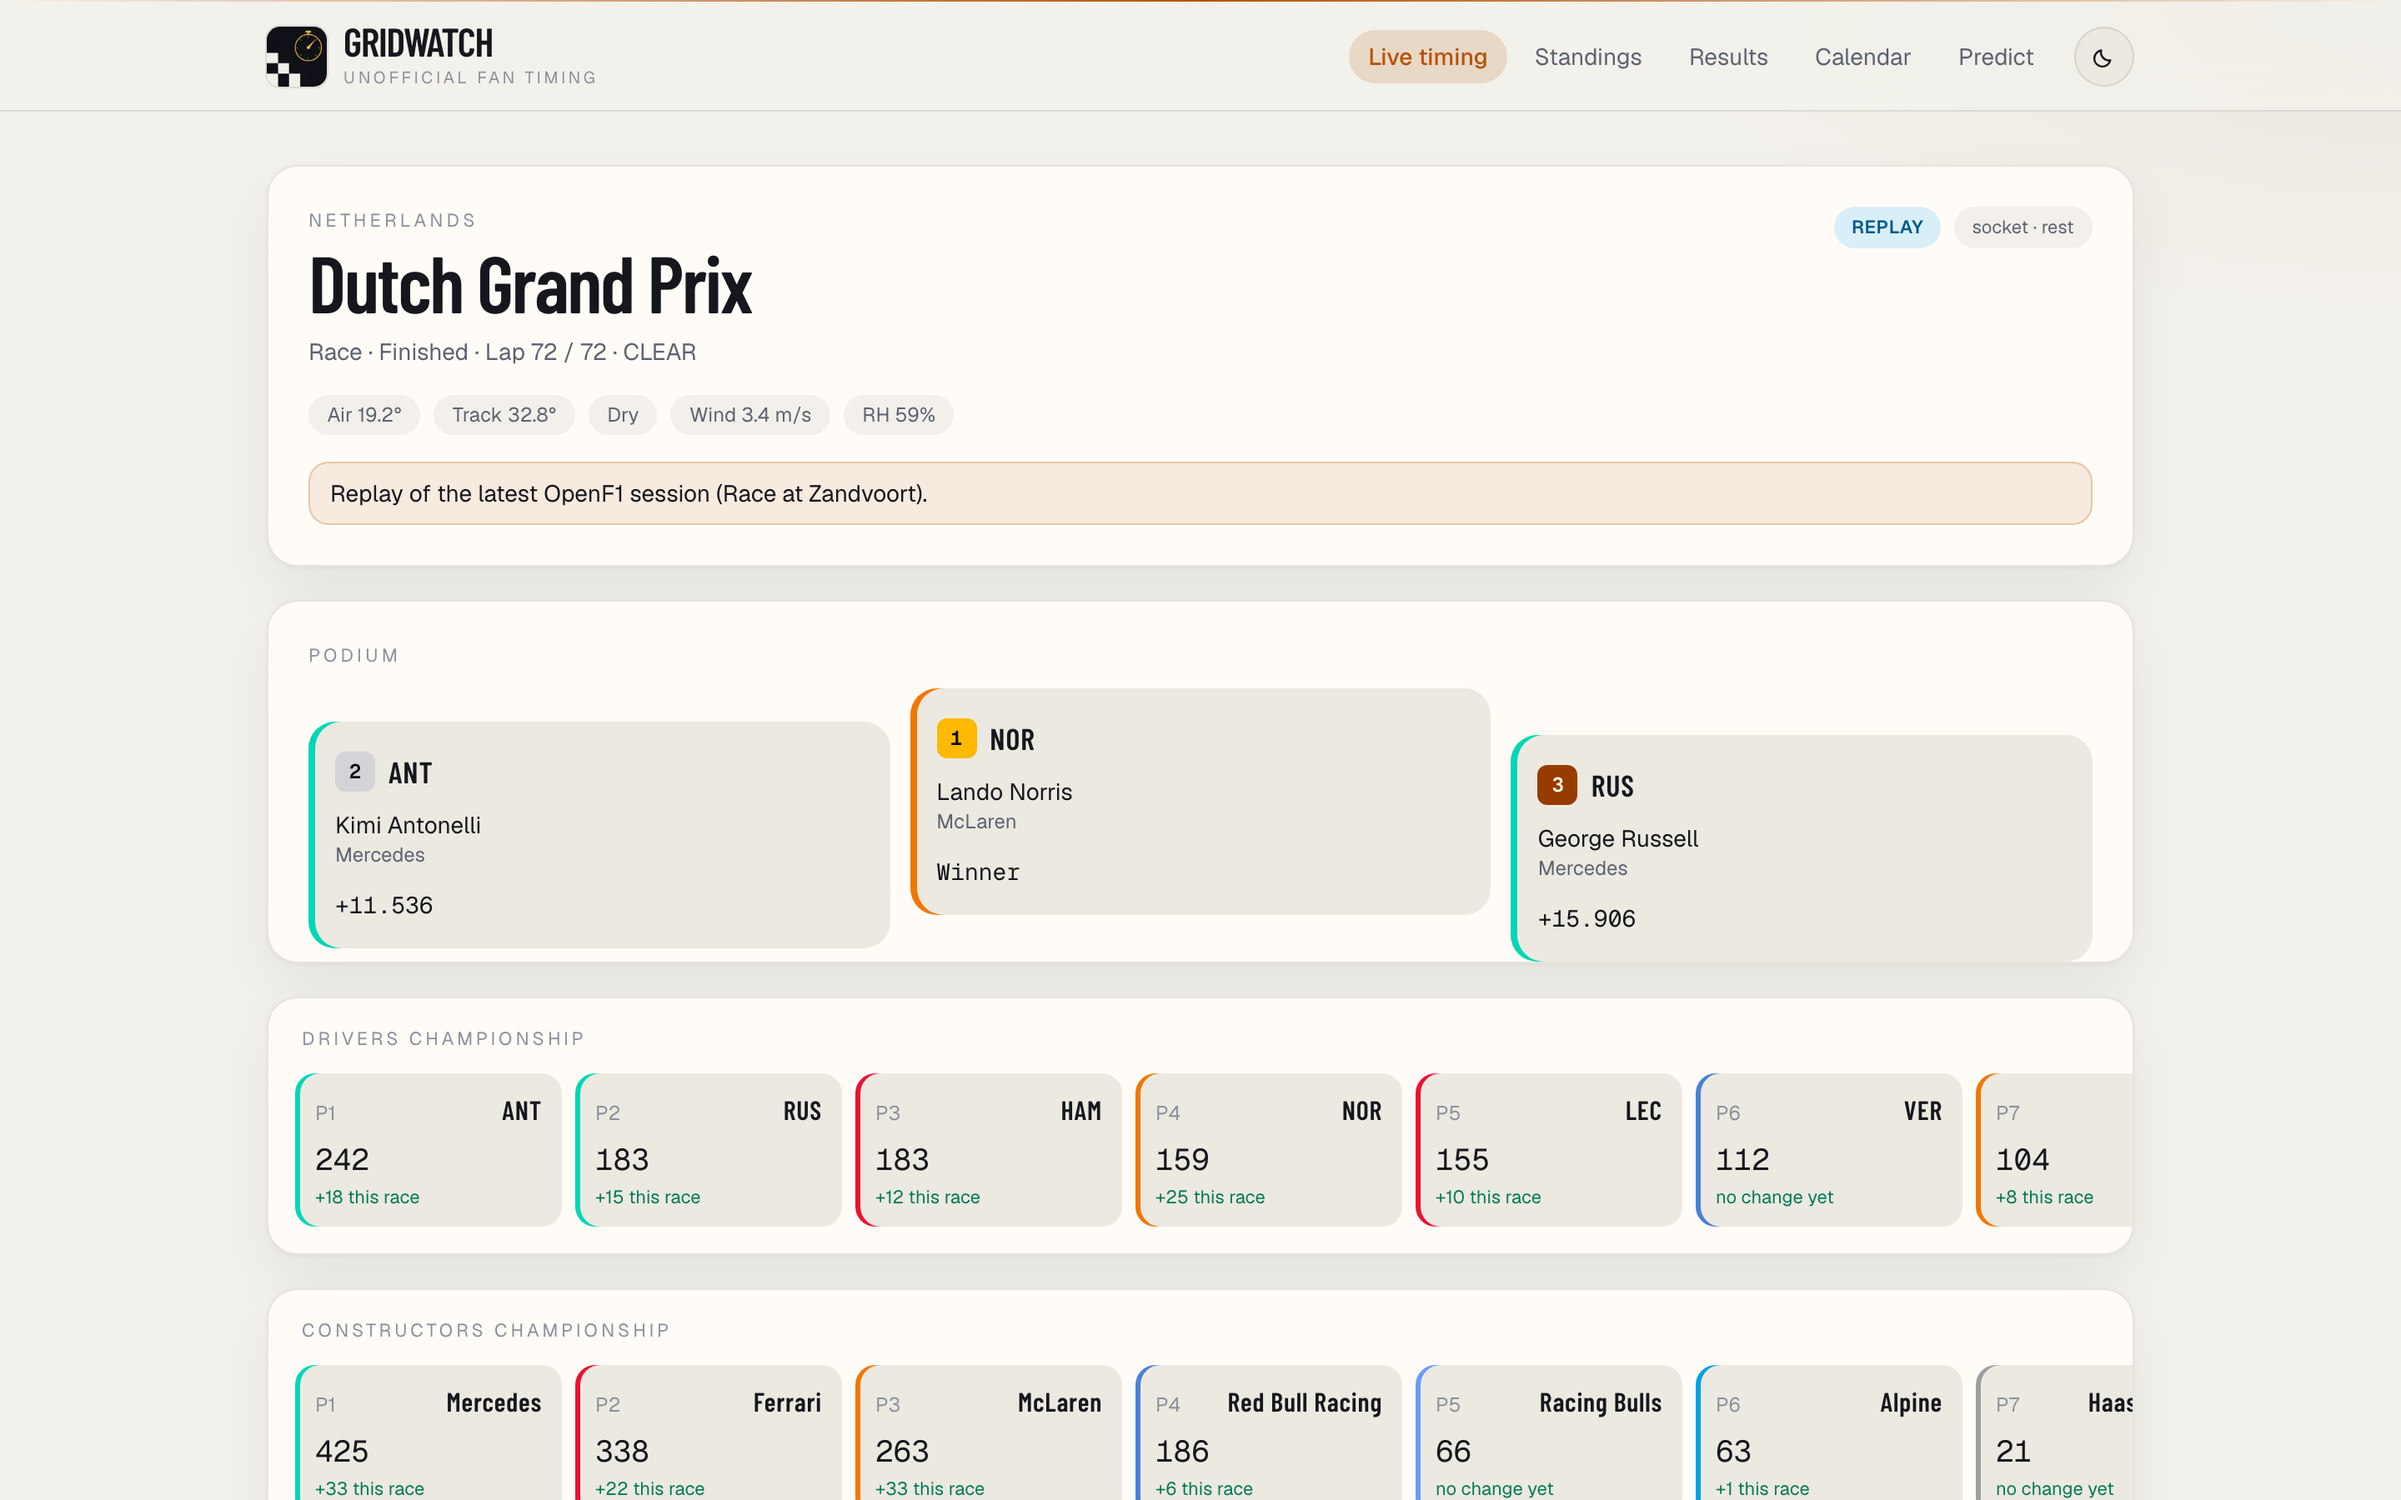
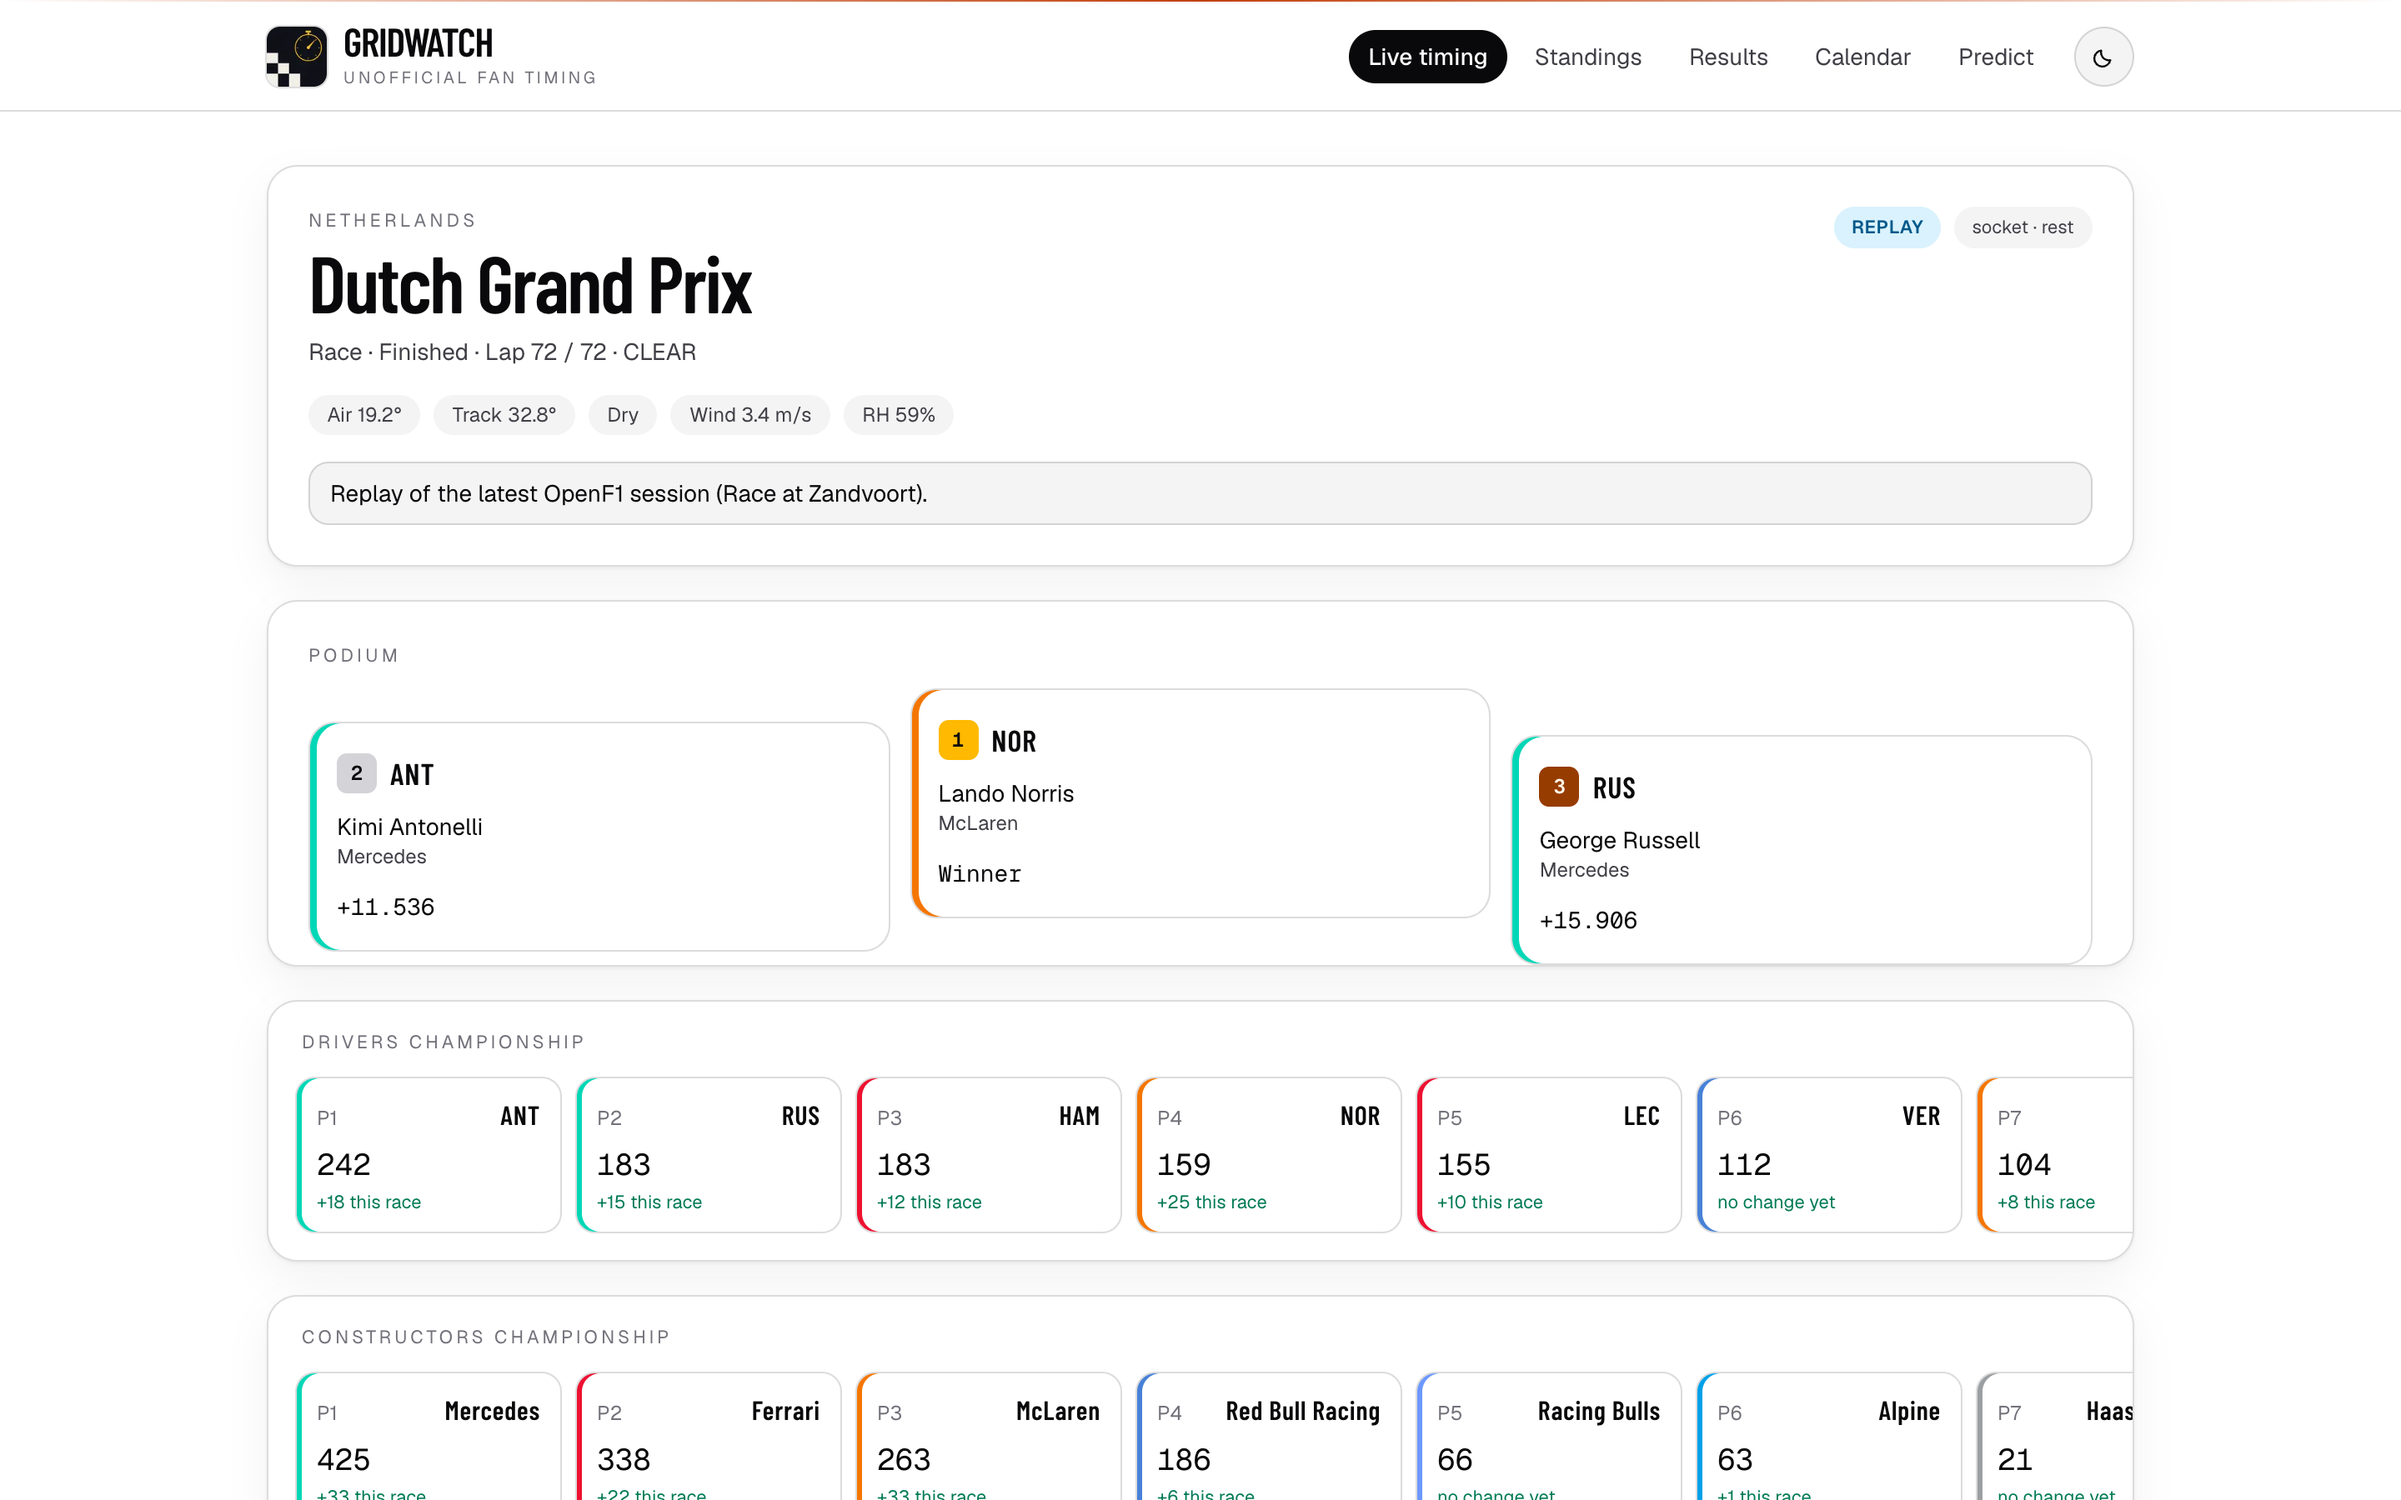
Switch light mode to a white UI instead of the cream theme.

diff --git a/src/app/globals.css b/src/app/globals.css
@@ -4,20 +4,21 @@
 
 :root,
 [data-theme="light"] {
-  --background: #f3f1eb;
-  --foreground: #16171d;
-  --surface: #fffcf7;
-  --surface-2: #ece9e1;
-  --border: rgba(22, 23, 29, 0.1);
-  --muted: #5c6270;
-  --subtle: #8b909c;
-  --accent: #b45309;
-  --accent-fg: #fff7ed;
-  --chip: rgba(22, 23, 29, 0.05);
-  --shadow: 0 1px 2px rgba(22, 23, 29, 0.04), 0 16px 40px rgba(22, 23, 29, 0.06);
-  --glow: rgba(180, 83, 9, 0.1);
-  --row-hover: rgba(22, 23, 29, 0.035);
-  --leader: rgba(180, 83, 9, 0.08);
+  --background: #ffffff;
+  --foreground: #09090b;
+  --surface: #ffffff;
+  --surface-2: #f4f4f5;
+  --border: rgba(9, 9, 11, 0.14);
+  --muted: #3f3f46;
+  --subtle: #71717a;
+  --accent: #c2410c;
+  --accent-fg: #ffffff;
+  --chip: #f4f4f5;
+  --shadow: 0 1px 2px rgba(9, 9, 11, 0.05), 0 10px 24px rgba(9, 9, 11, 0.05);
+  --glow: transparent;
+  --wash: transparent;
+  --row-hover: rgba(9, 9, 11, 0.035);
+  --leader: rgba(194, 65, 12, 0.07);
   color-scheme: light;
 }
 
@@ -34,6 +35,7 @@
   --chip: rgba(255, 255, 255, 0.05);
   --shadow: 0 0 0 1px rgba(255, 255, 255, 0.02);
   --glow: rgba(245, 158, 11, 0.09);
+  --wash: rgba(127, 29, 29, 0.06);
   --row-hover: rgba(255, 255, 255, 0.03);
   --leader: rgba(251, 191, 36, 0.08);
   color-scheme: dark;
@@ -63,7 +65,7 @@ body {
   min-height: 100%;
   background:
     radial-gradient(1100px 420px at 8% -12%, var(--glow), transparent 55%),
-    radial-gradient(900px 380px at 100% 0%, rgba(127, 29, 29, 0.06), transparent 50%),
+    radial-gradient(900px 380px at 100% 0%, var(--wash), transparent 50%),
     var(--background);
   color: var(--foreground);
   font-family: var(--font-geist-sans), sans-serif;
@@ -99,6 +101,11 @@ body {
   background: color-mix(in srgb, var(--accent) 16%, transparent);
   color: var(--accent);
   font-weight: 500;
+}
+
+[data-theme="light"] .nav-active {
+  background: #09090b;
+  color: #ffffff;
 }
 
 .tyre {

diff --git a/src/components/TimingBoard.tsx b/src/components/TimingBoard.tsx
@@ -144,7 +144,7 @@ export function TimingBoard({ initial }: { initial?: TimingSnapshot }) {
           </div>
         ) : null}
         {snapshot.notice ? (
-          <p className="mt-4 rounded-xl border border-accent/25 bg-accent/10 px-3 py-2 text-sm text-foreground">
+          <p className="mt-4 rounded-xl border border-border bg-surface-2 px-3 py-2 text-sm text-foreground">
             {snapshot.notice}
           </p>
         ) : null}
@@ -356,7 +356,7 @@ function Podium({ rows }: { rows: TimingRow[] }) {
           row ? (
             <div
               key={row.driverNumber}
-              className={`rounded-2xl bg-surface-2 px-4 py-4 ${order}`}
+              className={`rounded-2xl border border-border bg-surface px-4 py-4 ${order}`}
               style={{ boxShadow: `inset 4px 0 0 ${teamSwatch(row.teamColor)}` }}
             >
               <div className="flex items-center gap-2">
@@ -436,7 +436,7 @@ function ChampionshipStrip({
         {items.slice(0, 8).map((row) => (
           <div
             key={row.key}
-            className="w-40 rounded-xl bg-surface-2 px-3 py-2.5"
+            className="w-40 rounded-xl border border-border bg-surface px-3 py-2.5"
             style={{ boxShadow: `inset 3px 0 0 ${teamSwatch(row.color)}` }}
           >
             <div className="flex items-baseline justify-between gap-2">

diff --git a/src/app/results/page.tsx b/src/app/results/page.tsx
@@ -53,7 +53,7 @@ export default async function ResultsPage({
               href={`/results?round=${item.round}`}
               className={`rounded-full px-3 py-1 text-xs transition ${
                 active
-                  ? "bg-accent/15 font-medium text-accent"
+                  ? "bg-foreground font-medium text-background dark:bg-accent/15 dark:text-accent"
                   : "bg-chip text-muted hover:text-foreground"
               }`}
             >

diff --git a/src/app/layout.tsx b/src/app/layout.tsx
@@ -64,7 +64,7 @@ export const metadata: Metadata = {
 
 export const viewport: Viewport = {
   themeColor: [
-    { media: "(prefers-color-scheme: light)", color: "#f3f1eb" },
+    { media: "(prefers-color-scheme: light)", color: "#ffffff" },
     { media: "(prefers-color-scheme: dark)", color: "#09090b" },
   ],
 };
